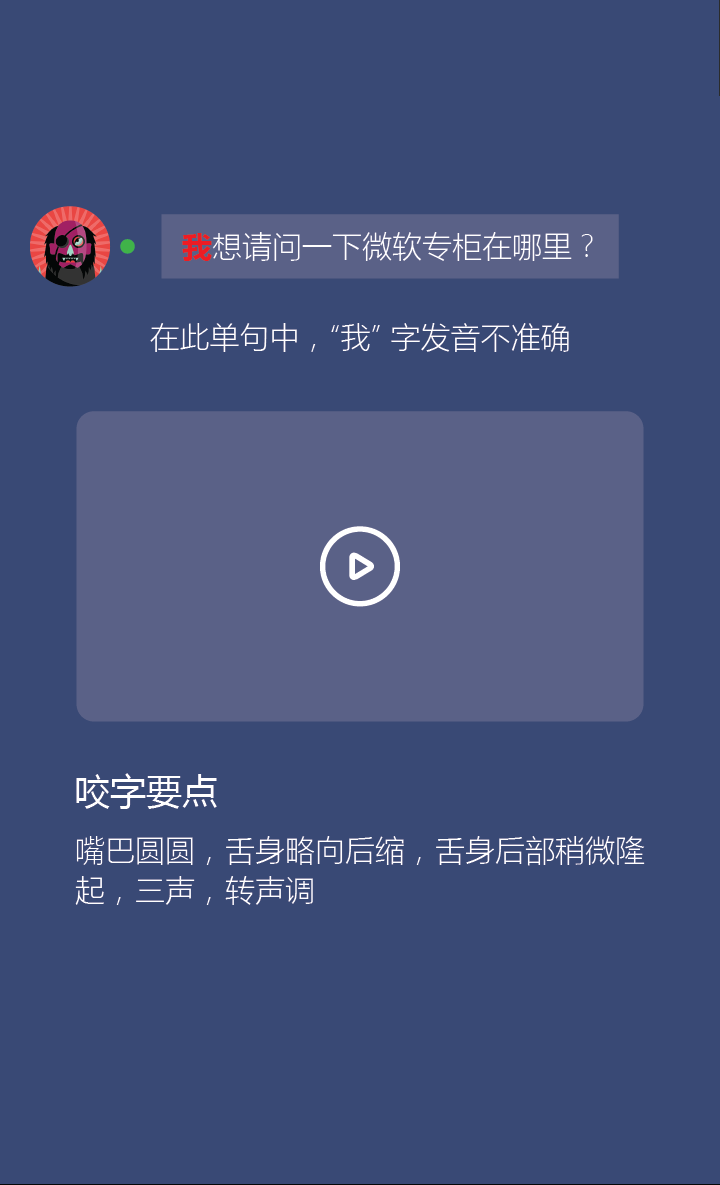
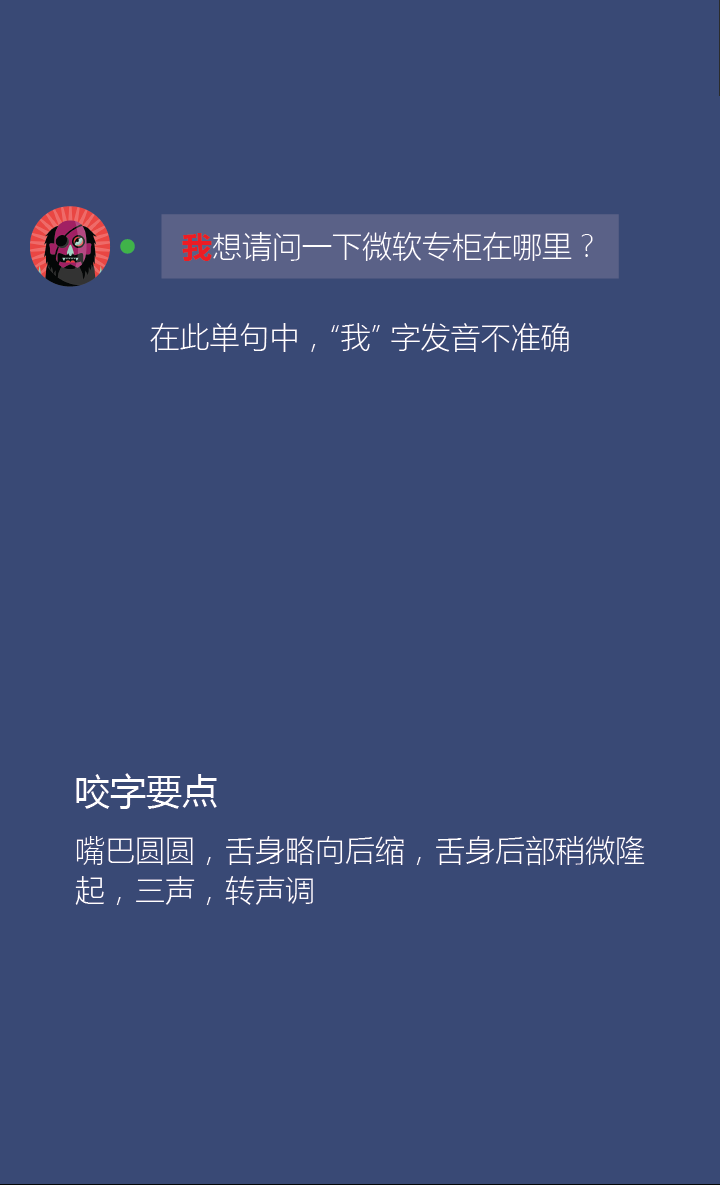
complete vedio

Changed region(s): [[0.0917, 0.3435, 0.9167, 0.6245]]

diff --git a/chatAgain/jiexi.xaml b/chatAgain/jiexi.xaml
@@ -52,7 +52,8 @@
             </SplitView.Pane>
             <SplitView.Content>
                 <Grid>
-                    <MediaElement Height="155" Width="280" Source="Assets/pra.mp4" Margin="40,155,40,0" VerticalAlignment="Top"/>
+                    <MediaElement x:Name="vedio" Height="155" Width="280" Source="Assets/pra.mp4" Margin="40,155,40,0" VerticalAlignment="Top" AutoPlay="False" Tapped="MediaElement_Tapped" MediaEnded="vedio_MediaEnded"/>
+                    <Image x:Name="rec" Height="155" Width="280"  Margin="40,155,40,0" VerticalAlignment="Top" Opacity="0.5" Source="Assets/bofang.png" Tapped="rec_Tapped"/>
                 </Grid>
             </SplitView.Content>
         </SplitView>

diff --git a/chatAgain/jiexi.xaml.cs b/chatAgain/jiexi.xaml.cs
@@ -57,5 +57,22 @@ namespace chatAgain
                 }
             }
         }
+
+        private void MediaElement_Tapped(object sender, TappedRoutedEventArgs e)
+        {
+            vedio.Pause();
+            rec.Visibility = Visibility.Visible;
+        }
+
+        private void rec_Tapped(object sender, TappedRoutedEventArgs e)
+        {
+            rec.Visibility = Visibility.Collapsed;
+            vedio.Play();
+        }
+
+        private void vedio_MediaEnded(object sender, RoutedEventArgs e)
+        {
+            rec.Visibility = Visibility.Visible;
+        }
     }
 }
